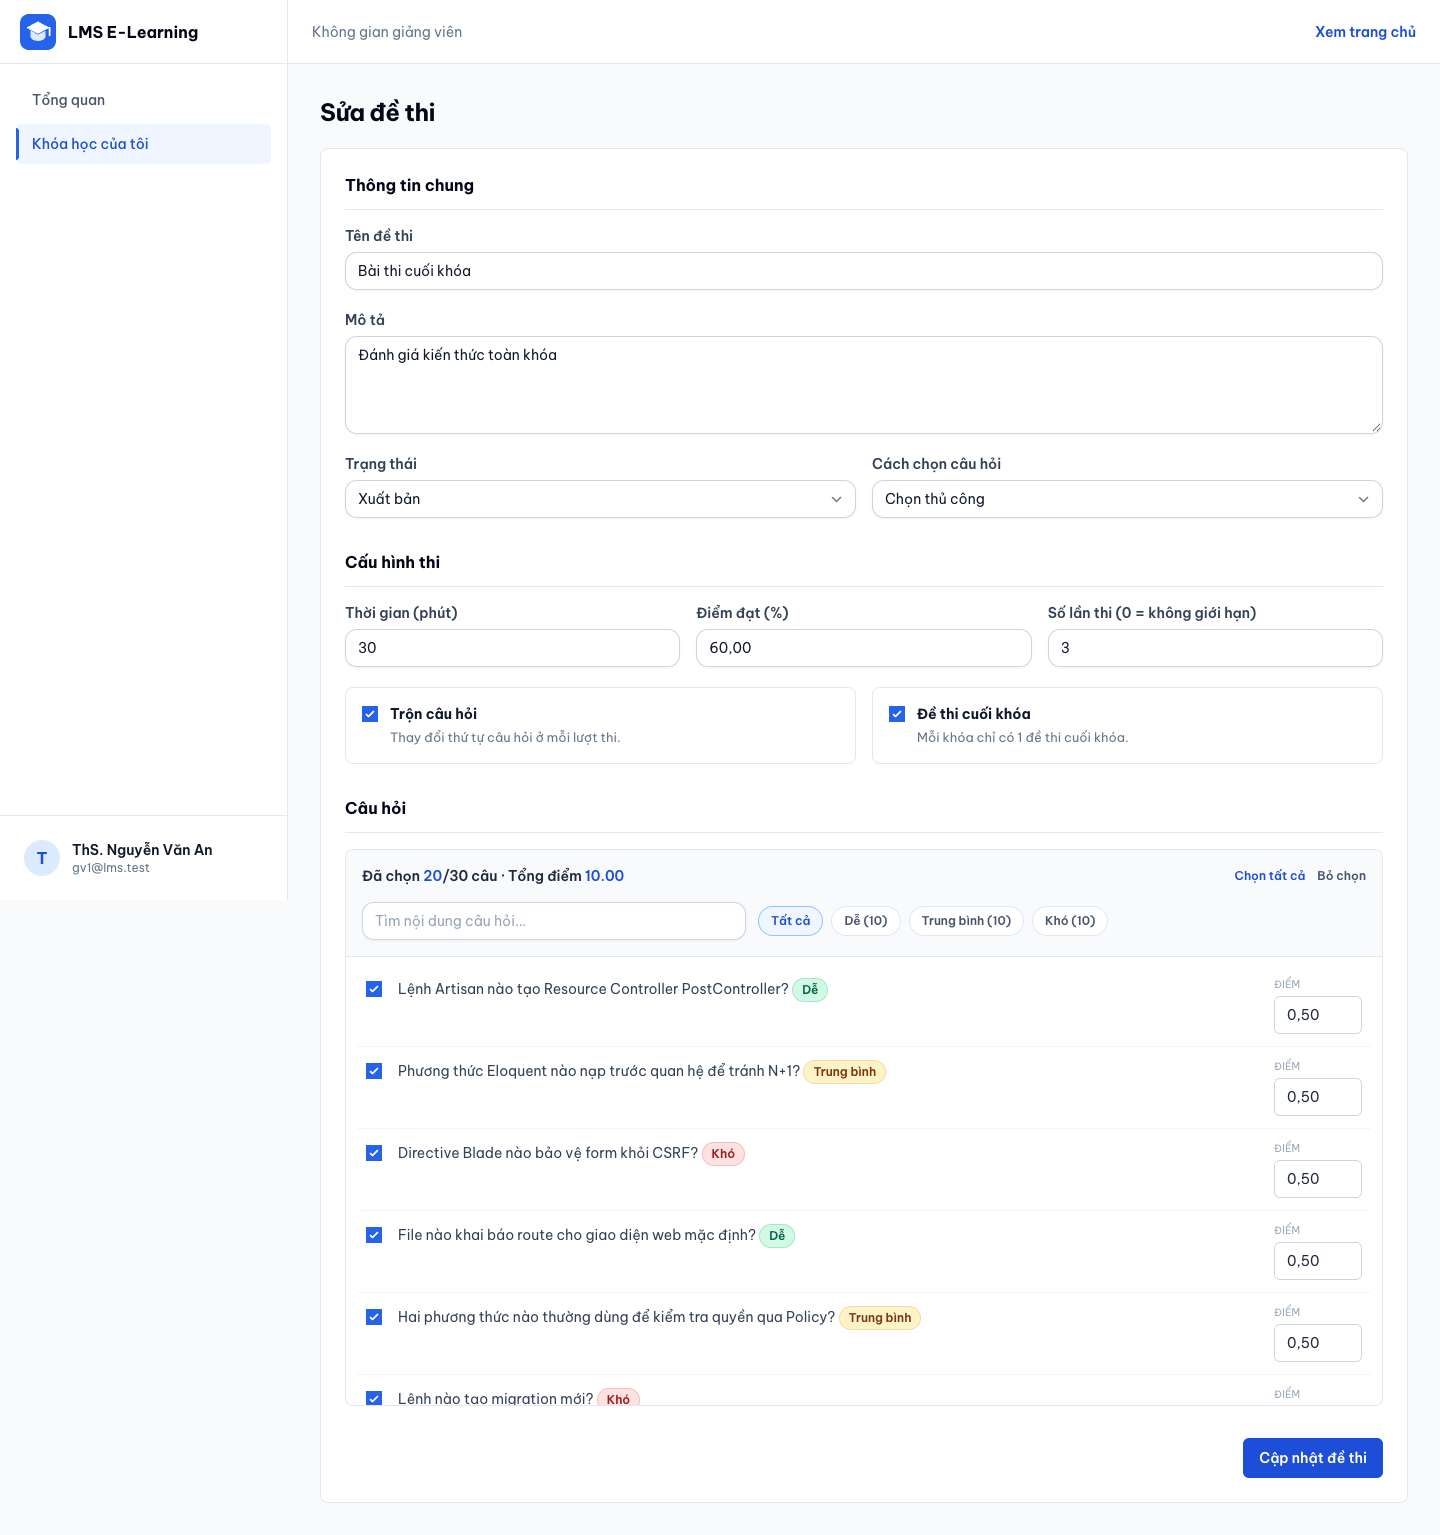
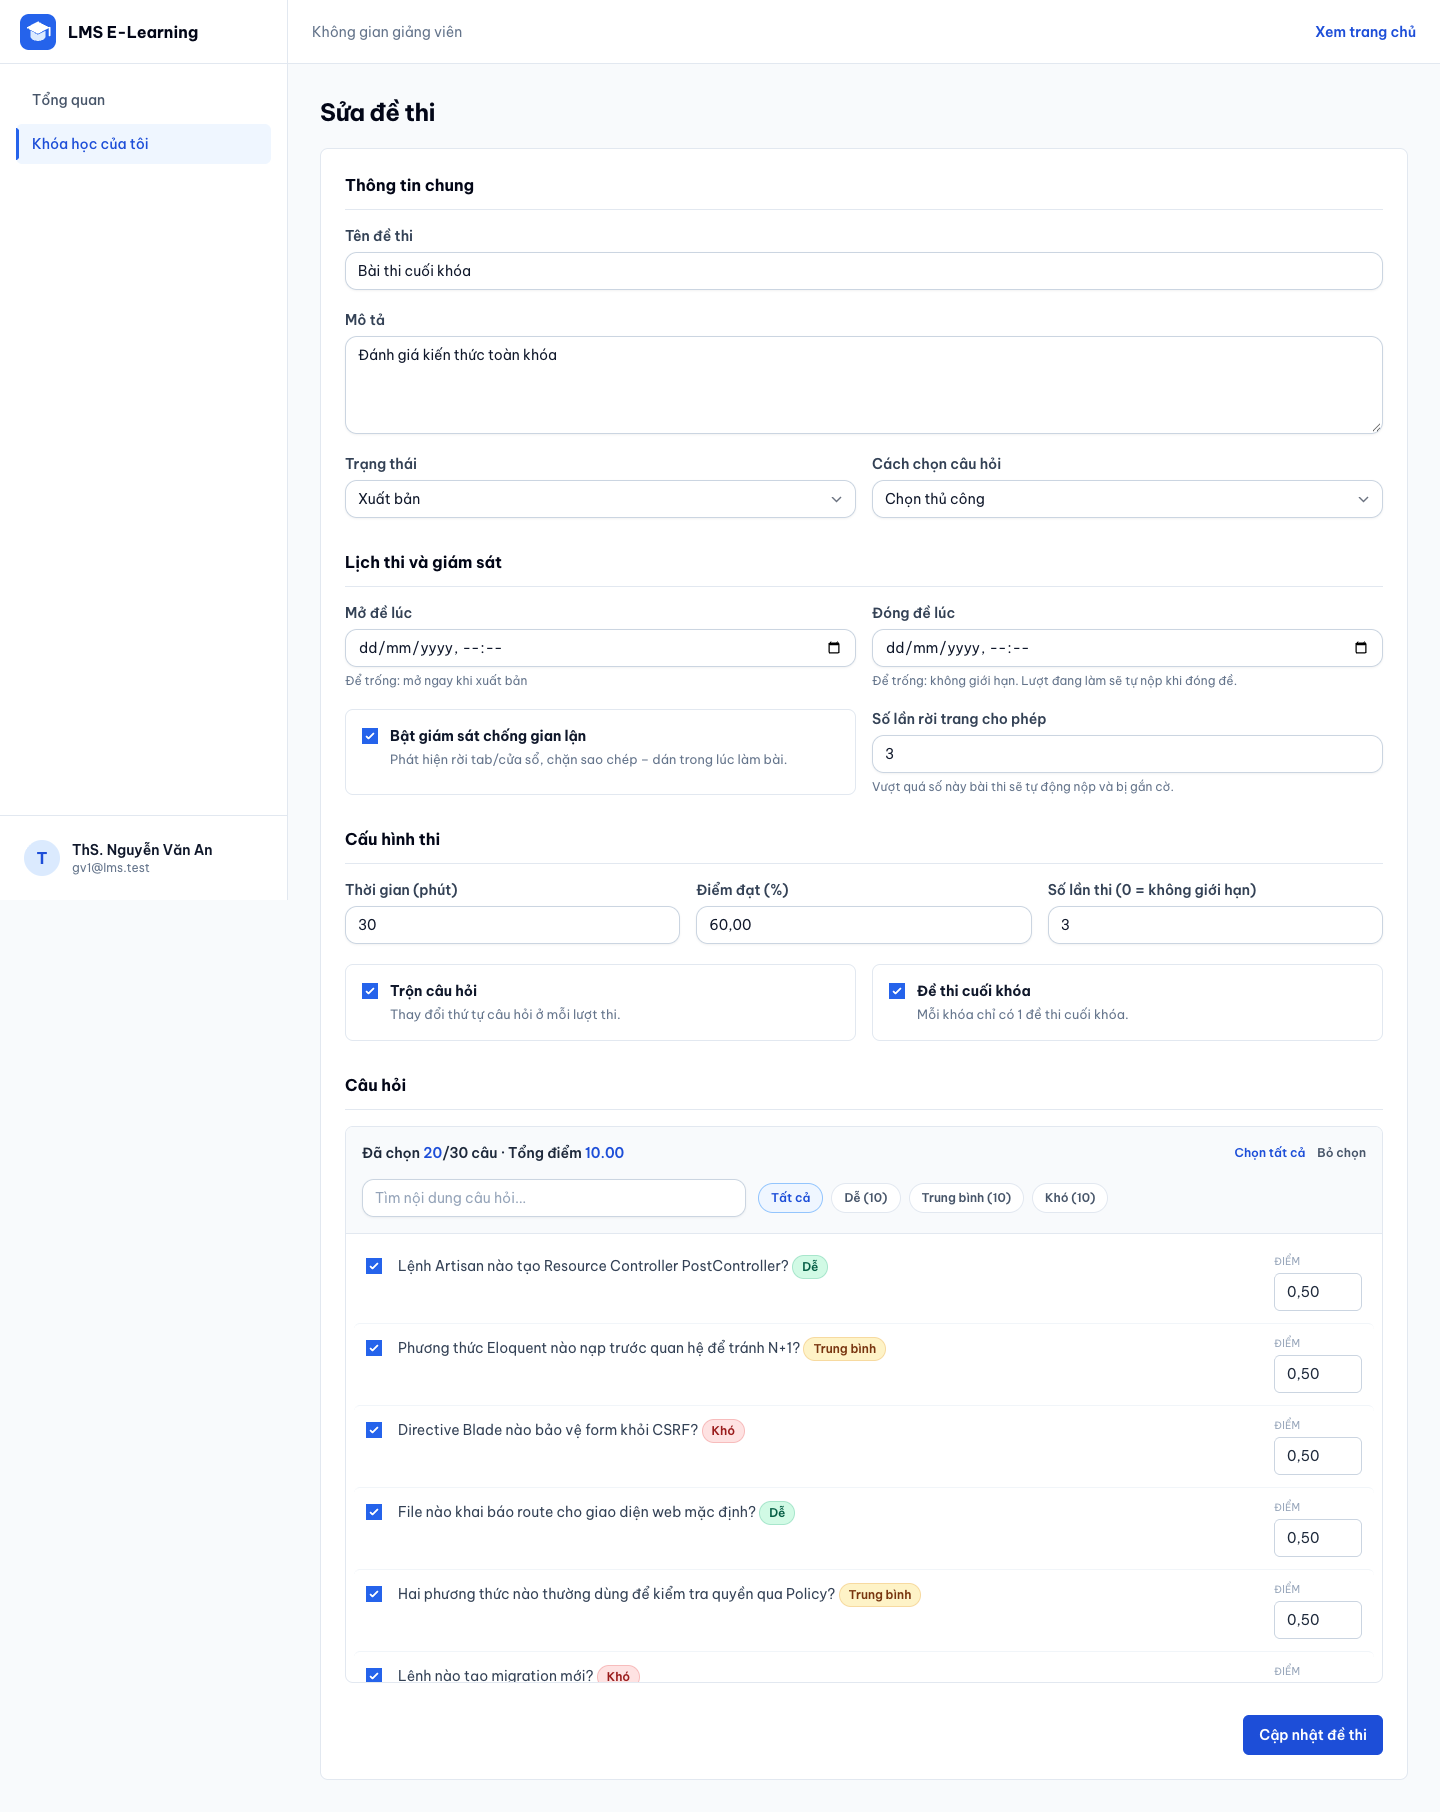
docs: document exam window and anti-cheat, refresh report and screenshots

diff --git a/README.md b/README.md
@@ -6,7 +6,8 @@ An online learning management and quiz system built for the "Lập trình mã ng
 
 - **Guest:** browse published courses, preview lessons, and verify certificates.
 - **Student:** register, pay, learn with the Fetch API (progress tracking), take Livewire exams, review results, and download certificates.
-- **Instructor:** CRUD for course content, question bank, Excel import/export, exam builder, view/export scores.
+- **Instructor:** CRUD for course content, question bank, Excel import/export, exam builder (optional open/close time window and browser-level anti-cheat settings), view/export scores including recorded violations.
+- **Exam window and anti-cheat:** an exam can have `starts_at`/`ends_at`; attempts are capped at the closing time and auto-submitted when it passes. With anti-cheat enabled, tab/window switches are logged (debounced), copy/paste/context menu are blocked on the question area, and exceeding `max_violations` auto-submits and flags the attempt, which is still graded normally on the saved answers. This is a deterrence layer only: it cannot stop a second device, screenshots, or face/webcam checks. `max_attempts = 0` means unlimited attempts.
 - **Admin:** manage users and categories, approve courses, confirm bank transfers, and view dashboards.
 
 ## Tech stack and requirements
@@ -33,6 +34,8 @@ npm run build
 php artisan serve
 ```
 
+To auto-submit abandoned attempts after an exam closes, run the scheduler in another terminal (`php artisan schedule:work`, or a `schedule:run` cron entry). It runs `php artisan exams:finalize-expired` every minute; the instructor results page and score export also sweep expired attempts on demand.
+
 The app runs at `http://127.0.0.1:8000` by default. Set `APP_DEBUG=false` for a production-style demo.
 
 ## Demo accounts
@@ -56,7 +59,7 @@ php artisan test
 php artisan test tests/Feature/E2E
 ```
 
-The suite currently has 63 passing tests. Tests use SQLite `:memory:` as configured in `phpunit.xml`. To rebuild the demo data, run `php artisan migrate:fresh --seed` (this deletes existing data).
+The suite currently has 89 passing tests (383 assertions). Tests use SQLite `:memory:` as configured in `phpunit.xml`. To rebuild the demo data, run `php artisan migrate:fresh --seed` (this deletes existing data).
 
 ## Directory structure
 
